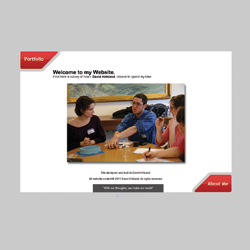
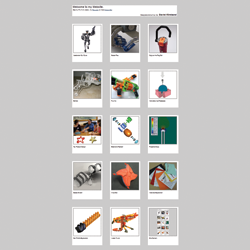
remove index page

diff --git a/about_me.html b/about_me.html
@@ -31,21 +31,11 @@
 
   <link rel="stylesheet" media="screen" type="text/css" href="css/ImageOverlay.css" />
   <link href="css/style.css" rel="stylesheet" type="text/css">
-
+    <link rel="stylesheet" href="css/jquery.lightbox-0.5.css" type="text/css" />
 
 </head>
 
 <body>
-
-<div id="nav_upper_left">
-<a href="portfolio.html" title="Portfolio">
-<img src="images/buttons/button-projects-small-other.png" width="200" height="100" /></a>
-</div>
-
-<div id="nav_lower_right">
-<a href="index.html" title="Introduction">
-<img src="images/buttons/button-intro-lower-right-small.png" width="200" height="100"/></a>
-</div>
 
 <div id="container">
     <header>
@@ -152,7 +142,7 @@ have”! &nbsp; ~Emile Chartier.1868-1951<br/>
          <tr id="row_spacing_about">
          </tr>
          <tr>
-        	<td id="column_about">
+        	<td rowspan="3" id="column_about">
                 <ul id="g7" class="image-overlay">
                 <a>
             	<img src="images/about_me/technology.png"> 
@@ -162,9 +152,9 @@ have”! &nbsp; ~Emile Chartier.1868-1951<br/>
                 </a>
                 </ul>
             </td>
-            <td id="column_spacing_about">
+            <td rowspan="3" id="column_spacing_about">
             </td>
-            <td id="column_about">
+            <td rowspan="3" id="column_about_short">
                 <ul id="g8" class="image-overlay">
                 <a>
             	<img src="images/about_me/fashion.png"> 
@@ -174,9 +164,9 @@ have”! &nbsp; ~Emile Chartier.1868-1951<br/>
                 </a>
                 </ul>
             </td>
-            <td id="column_spacing_about">
+            <td rowspan="3" id="column_spacing_about">
             </td>
-            <td id="column_about">
+            <td rowspan="3" id="column_about">
             	<ul id="g9" class="image-overlay">
                 <a>
             	<img src="images/about_me/music.png"> 
@@ -186,10 +176,19 @@ have”! &nbsp; ~Emile Chartier.1868-1951<br/>
                 </a>
                 </ul>
             </td>            
-            <td id="column_spacing_about">
+            <td rowspan="3" id="column_spacing_about">
             </td>
-            <td>
-            <a href="david_kirkland_resume.pdf"><img src="images/buttons/button-resume-small.png"></a>             
+            <td id="column_me_short">       
+            <a href="david_kirkland_resume.pdf">
+            <img src="images/buttons/new_about_button_resume.png"></a>
+            </td>
+         </tr>
+         <tr id="row_spacing_about">
+         </tr>
+         <tr>
+            <td id="column_me_short">       
+            <a href="portfolio.html">
+            <img src="images/buttons/new_about_button_portfolio.png"></a>
             </td>
          </tr>
          </table>     
@@ -203,8 +202,7 @@ have”! &nbsp; ~Emile Chartier.1868-1951<br/>
   <script>!window.jQuery && document.write(unescape('%3Cscript src="js/libs/jquery-1.4.2.js"%3E%3C/script%3E'))</script>
   <script type="text/javascript" src="js/jquery.metadata.2.1/jquery.metadata.js"></script>
   <script type="text/javascript" src="js/jquery.ImageOverlay.min.js"></script>
-  
-  
+
 <script type="text/javascript">
 $(window).load(function() {
 		// JavaScript for the Image Overlay galleries.
@@ -217,6 +215,7 @@ $(window).load(function() {
 		$("#g7").ImageOverlay({overlay_speed: 'fast', overlay_speed_out : 'fast'});
 		$("#g8").ImageOverlay({overlay_speed: 'fast', overlay_speed_out : 'fast'});
 		$("#g9").ImageOverlay({overlay_speed: 'fast', overlay_speed_out : 'fast'});
+		$("#g10").ImageOverlay({overlay_speed: 'fast', overlay_speed_out : 'fast'});
 		$("#name").ImageOverlay({overlay_speed: 'fast', overlay_speed_out : 'fast', overlay_color: "#fff", opacity: '.3'});
 		   });
 	</script>

diff --git a/css/style.css b/css/style.css
@@ -91,15 +91,26 @@ pre, code, kbd, samp { font-family: monospace, sans-serif; }
 
 
 body, select, input, textarea { 
-  /* #444 looks better than black: twitter.com/H_FJ/statuses/11800719859 */ 
-  color: #444; 
+	color: #444; 
   /* set your base font here, to apply evenly */
-  /* font-family: Georgia, serif;  */   
+	font-family: Arial, sans-serif;  */   
 }
 
 /* Headers (h1,h2,etc) have no default font-size or margin,
    you'll want to define those yourself. */ 
 h1,h2,h3,h4,h5,h6 { font-weight: bold; }
+h1 { font-family: Arial, sans-serif; font-size: 24px; color: #444; }
+
+h2 { font-family: Arial, sans-serif; font-size: 20px; color: #444; }
+
+h3 { font-family: Arial, sans-serif; font-size: 18px; color: #999; }
+
+h4 { font-family: Arial, sans-serif; font-size: 14px; color: #444; }
+
+h5 { font-family: Arial, sans-serif; font-size: 12px; color: #444; }
+
+h6 { font-family: Arial, sans-serif; font-size: 8px; color: #444; }
+
 
 /* always force a scrollbar in non-IE */ 
 html { overflow-y: scroll; }
@@ -271,6 +282,11 @@ button {  width: auto; overflow: visible; }
 	}
 
 /*Projects Page*/
+	#column_intro {
+		width:960px;
+		height:100px;
+		background-color:#FFF;
+	}
 	#column_projects {
 		width:274px;
 		height:350px;
@@ -297,23 +313,42 @@ button {  width: auto; overflow: visible; }
 		text-align:center;
 		vertical-align:middle;
 	}
+	#words_lower_right {
+		float:right;
+	}
 
 /*About Me Page*/
 	#column_about {
 		width:196px;
 		height:196px;
 	}
+	#column_about_short {
+		width:196px;
+		height:85px;
+	}	
 	#column_spacing_about {
 		width:26px;
 		height:196px;
+	}
+	#column_spacing_about_short {
+		width:26px;
+		height:85px;
 	}
 	#row_spacing_about {
 		width:666;
 		height:26px;
 	}
+	#row_spacing_about_long {
+		width:960;
+		height:26px;
+	}	
 	#column_me {
-		width:296px;
+		width:294px;
 		height:418px;
+	}
+	#column_me_short {
+		width:294px;
+		height:85px;
 	}
 	#resume_dl {
 		width:296px;

diff --git a/portfolio.html b/portfolio.html
@@ -33,18 +33,33 @@
 
 <body>
 
-<div id="nav_upper_left">
-<a href="index.html" title="Introduction">
-<img src="images/buttons/button-intro-upper-left-small.png" width="200" height="100"/></a>
-</div>
-
-<div id="nav_lower_right">
-<a href="about_me.html" title="About Me">
-<img src="images/buttons/button-about-me-small.png" width="200" height="100"/></a>
-</div>
-
 <div id="container">
     <div id="main">
+        <table>
+        <tr>
+        	<td id="column_intro">
+                <span style="font-size:12px; font-weight:700;">&nbsp;</span>
+                <span style="font-size:24px; font-weight:700;">Welcome to my Website.</span><br/>
+                <span style="font-size:18px; font-weight:700;">&nbsp;</span>
+                <span style="font-size:14px;">See my
+                    <span style="font-weight:700;">Portfolio</span> 
+                    below, my 
+                    <span style="font-weight:700;"><a href="david_kirkland_resume.pdf">Resumé</a></span>, 
+                    or more 
+                    <span style="font-weight:700;"><a href="about_me.html">About Me</a></span>.
+                    </span>
+                    <br/>
+                    <span style="font-size:18px;">&nbsp;</span>
+                    <br/>
+                <div id="words_lower_right">
+                <span style="font-size:14px;">Designed and built by me,</span><span style="font-size:20px; font-weight:800;"> David Kirkland</span><span style="font-size:7px">&nbsp;&nbsp;</span>
+                </div>
+            
+            </td>
+        </tr>
+        <tr id="row_spacing">
+        </tr>
+        </table>
     	<table>
         <tr>                              <!--first row-->
         	<td id="column_projects">
